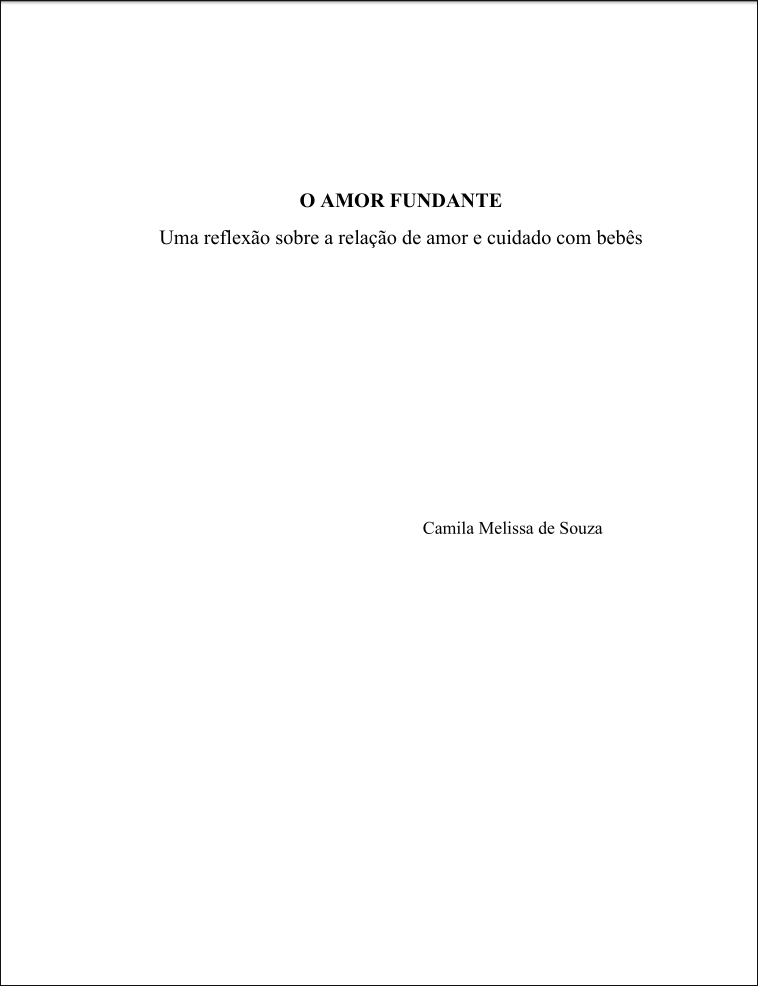
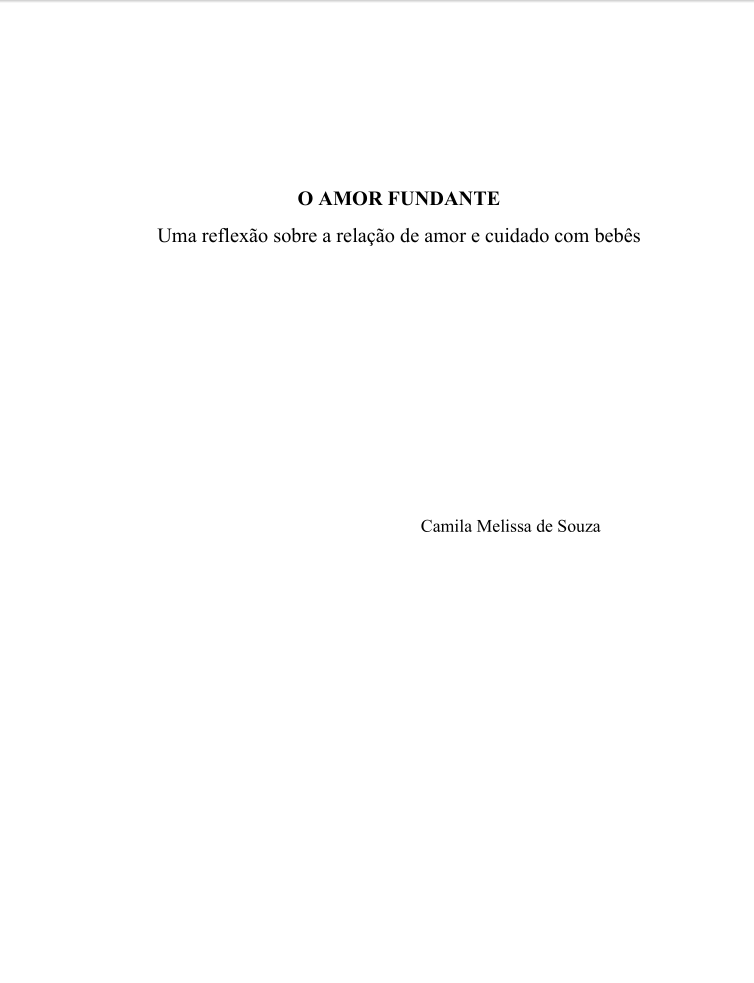
:recycle: refactor: global refinements

Changed region(s): [[0.0, 0.0, 1.0, 0.0305], [0.2135, 0.1831, 0.8541, 0.2747], [0.5491, 0.5188, 0.7931, 0.5493]]

diff --git a/src/ts/components/footer.ts b/src/ts/components/footer.ts
@@ -3,7 +3,7 @@ import { customElement, state } from 'lit/decorators.js'
 import logoSrc from '../../assets/images/logo-camila.png'
 import logoNameSrc from '../../assets/images/logo-nome.png'
 import sendEmail from '../services/emailSendingService'
-import { instagramIcon, linkedinIcon, whatsappIcon, envelopeIcon } from '../utils/icons-bootstrap'
+import { instagramIcon, linkedinIcon, whatsappIcon, envelopeIcon, googleIcon } from '../utils/icons-social-midea'
 
 const sanitizeInput = (str: string) => {
   return str.replace(/[<>"]/g, '').trim()
@@ -128,6 +128,12 @@ export class AppFooter extends HTMLElement {
                    class="text-white hover:text-white/80 motion-reduce:transition-none transition-colors p-2"
                    aria-label="Email">
                   <span class="w-7 h-7 block">${envelopeIcon}</span>
+                </a>
+                <a href="https://share.google/0HiZFP8Y78hZ7vWR4"
+                   class="text-white hover:text-white/80 motion-reduce:transition-none transition-colors p-2"
+                   aria-label="Google"
+                   rel="noopener noreferrer">
+                  <span class="w-7 h-7 block">${googleIcon}</span>
                 </a>
               </div>
             </div>

diff --git a/src/ts/components/main.ts b/src/ts/components/main.ts
@@ -5,12 +5,12 @@ import fotoCamila from '../../assets/images/hero-image.webp'
 import heroBgDecoration from '../../assets/images/hero-bg-decoration.svg'
 import { UserCheck, Users, BookOpen } from 'lucide'
 import { createIconElement } from '../utils/icons'
-import { whatsappIcon } from '../utils/icons-bootstrap'
+import { whatsappIcon } from '../utils/icons-social-midea'
 
 const qualityItems = [
   { icon: UserCheck, text: '7 anos de experiência no atendimento clínico' },
   { icon: Users, text: '+ de 80 pacientes' },
-  { icon: BookOpen, text: 'estou em constante aprendizado' },
+  { icon: BookOpen, text: 'em constante aprendizado' },
 ]
 
 @customElement('hero-section')
@@ -73,6 +73,7 @@ export class HeroSection extends LitElement {
               <div class="relative -mt-6 mx-auto w-[382px] max-w-[90%] bg-white rounded-input shadow-caption p-4 text-center -mb-6">
                 <p class="font-body font-bold text-heading-md text-text-gray">Camila Melissa de Souza</p>
                 <p class="font-body font-medium text-base text-gray-6">Psicóloga & Psicanalista</p>
+                <p class="font-body font-medium text-base text-gray-6"> CRP 06/158929</p>
               </div>
             </div>
           </div>

diff --git a/src/ts/utils/icons-social-midea.ts b/src/ts/utils/icons-social-midea.ts
@@ -13,3 +13,7 @@ export const whatsappIcon = `<svg xmlns="http://www.w3.org/2000/svg" width="29" 
 export const envelopeIcon = `<svg xmlns="http://www.w3.org/2000/svg" width="31" height="31" fill="currentColor" viewBox="0 0 16 16">
   <path d="M0 4a2 2 0 0 1 2-2h12a2 2 0 0 1 2 2v8a2 2 0 0 1-2 2H2a2 2 0 0 1-2-2zm2-1a1 1 0 0 0-1 1v.217l7 4.2 7-4.2V4a1 1 0 0 0-1-1zm13 2.383-4.708 2.825L15 11.105zm-.034 6.876-5.64-3.471L8 9.583l-1.326-.795-5.64 3.47A1 1 0 0 0 2 13h12a1 1 0 0 0 .966-.741M1 11.105l4.708-2.897L1 5.383z"/>
 </svg>`
+
+export const googleIcon = `<svg xmlns="http://www.w3.org/2000/svg" width="29" height="29" fill="currentColor" class="bi bi-google" viewBox="0 0 16 16">
+  <path d="M15.545 6.558a9.4 9.4 0 0 1 .139 1.626c0 2.434-.87 4.492-2.384 5.885h.002C11.978 15.292 10.158 16 8 16A8 8 0 1 1 8 0a7.7 7.7 0 0 1 5.352 2.082l-2.284 2.284A4.35 4.35 0 0 0 8 3.166c-2.087 0-3.86 1.408-4.492 3.304a4.8 4.8 0 0 0 0 3.063h.003c.635 1.893 2.405 3.301 4.492 3.301 1.078 0 2.004-.276 2.722-.764h-.003a3.7 3.7 0 0 0 1.599-2.431H8v-3.08z"/>
+</svg>`
